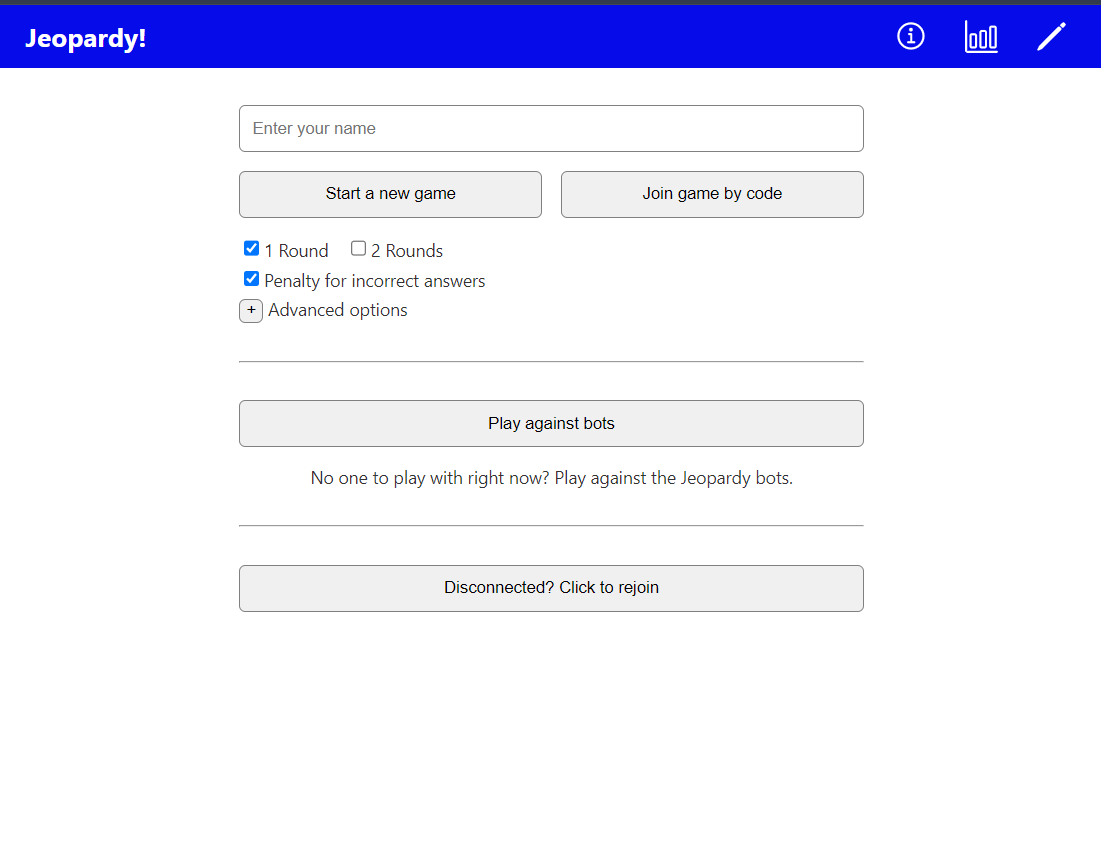
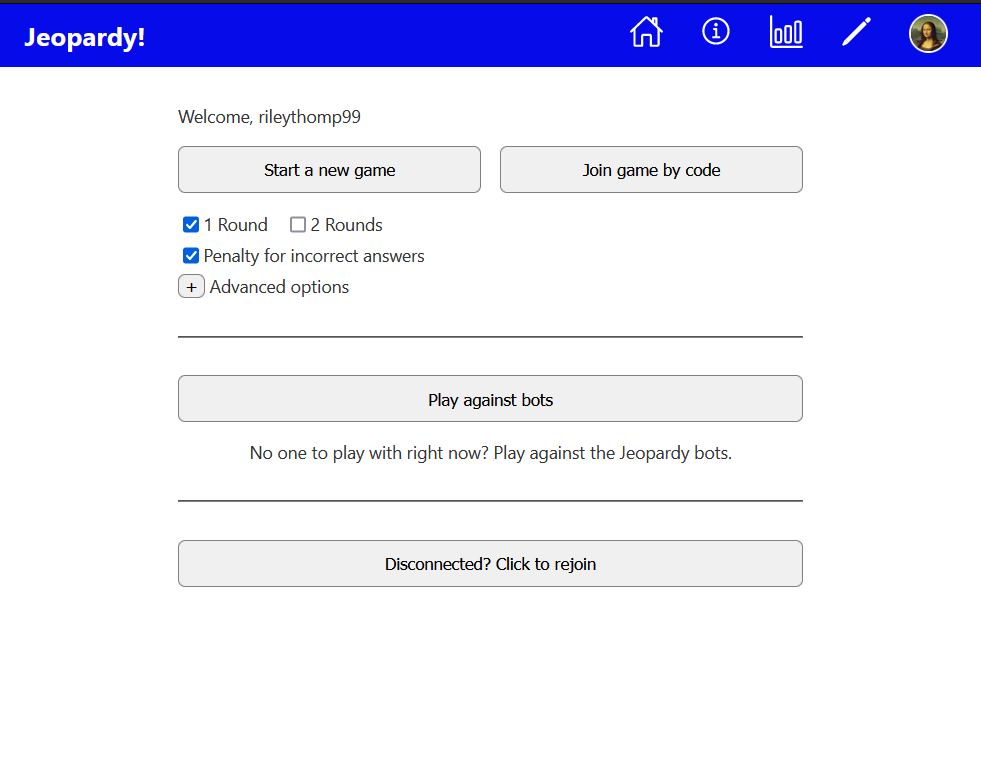
update readme

diff --git a/README.md b/README.md
@@ -17,9 +17,9 @@ Play here: https://playjeopardy.netlify.app
 </details>
 
 <details>
-  <summary>Search page</summary>
-  
-![search](imgs/search.png)
+  <summary>Profile page</summary>
+
+![profile](imgs/profile.png)
 
 </details>
 
@@ -42,6 +42,8 @@ Play here: https://playjeopardy.netlify.app
 ### Features
 
 - Sign in with Google and GitHub accounts or email
+
+- Player accounts with analytics (all-time record, totals and highs)
 
 - Game configuration
 
@@ -87,9 +89,7 @@ $ ng serve
 
 ### TODO
 
-- Accounts with user stats
-
-- Leaderboards
+- Leaderboards and improved analytics
 
 - Allow players to select bot difficulty
 
